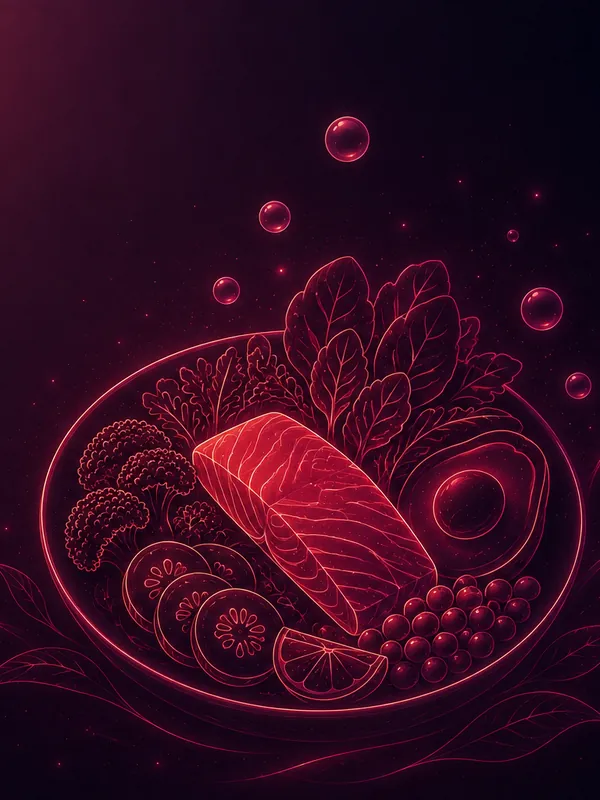
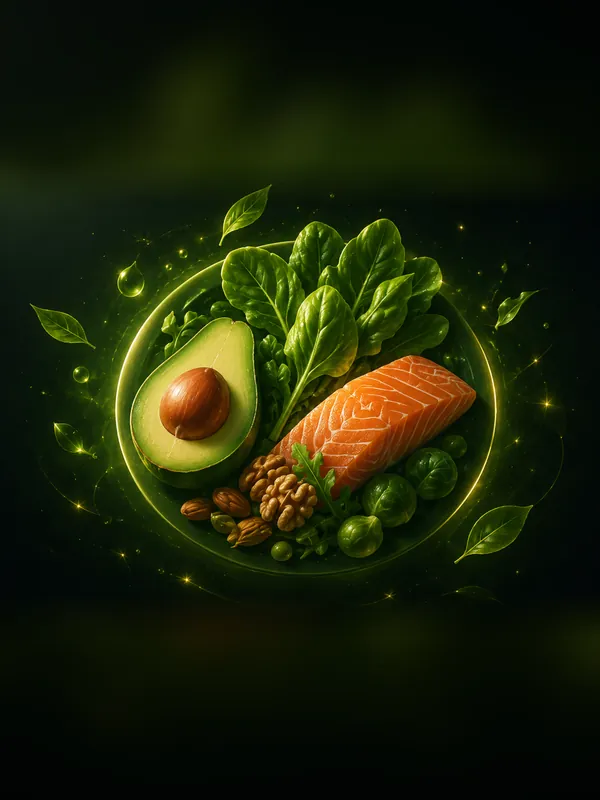
Six new posters + unpublished sprints show as "coming soon"
POSTERS (COVER_V 2 -> 3). Irena's new artwork replaces {slug}-poster.webp for sleep,
antichaos, gut-body, woman-body, nutrition and glutes. Wide versions and the
rejuvenation lotus are untouched, so the home hero and the day/sprint headers look
exactly as before.

The sources are not clean artwork but landscape CARDS: ~45px of black margin, rounded
corners and a translucent glyph badge in the top-right. So the crop runs in two steps -
trim to content (which removes both the margin and the corners), then 3:4. Skipping the
first step puts black bars top and bottom into the poster and leaves a 14px sliver of
the sliced badge at the right edge.

3:4 cuts 32-40% of the width on every one of them. Four survive a centre crop. antichaos
and nutrition did not: the brain is wide and the plate is round, both centred, so no
horizontal shift saves them - they are fitted whole instead, with the surround filled by
a blurred, darkened copy of the image itself and the card edge feathered over 90px. A
flat pad was tried first and read as a sticker: the card's rounded corners stayed
visible against it.

Caption legibility measured, not eyeballed - the .poster::before gradient composited
over each new poster, worst 5th percentile under the text: title 14.2-19.8, subtitle
8.1-10.2 against the AA threshold of 4.5. Worst new case (woman-body 14.2/8.1) is level
with the rejuvenation lotus already live and accepted (14.4/8.0).
[…]

diff --git a/app.js b/app.js
@@ -1080,7 +1080,16 @@ function escapeHtml(s) {
 // v2 (2026-08-16): перерисованы обе обложки antichaos под теми же именами. Счётчик
 // ОДИН на все обложки - подмена одной картинки заставляет перекачать и остальные.
 // Это осознанный размен: отдельная версия у каждого файла означала бы 14 констант.
-const COVER_V = 2;
+// v3 (2026-08-17): ШЕСТЬ ПОСТЕРОВ от Ирены, разноцветные (было единой малиновой
+// серией). Заменены ТОЛЬКО {slug}-poster.webp у sleep, antichaos, gut-body,
+// woman-body, nutrition, glutes; широкие версии и лотос rejuvenation не тронуты.
+// Исходники - лендскейпные КАРТОЧКИ (чёрное поле по краям, скруглённые углы, бейдж
+// с глифом в правом верхнем углу), поэтому кроп в два шага: обрезка по содержимому,
+// затем 3:4. У antichaos и nutrition центральный кроп резал мозг и круг тарелки -
+// они вписаны целиком, фон добит размытой копией себя с растушёвкой кромки.
+// woman-body в библиотеке НЕ используется (ЖКТ и тело - один спринт): лежит как
+// ассет под шапку дорожки «только тело».
+const COVER_V = 3;
 // ICON_V здесь СОЗНАТЕЛЬНО НЕТ. Иконки плиток, медальон Подружки и аватар стоят
 // статикой в index.html и версионируются прямо в src (`icons/…png?v=N`). Константа
 // в JS их не касалась бы и стала бы вторым источником правды, который молча
@@ -1207,6 +1216,12 @@ function homeSprints(data) {
 // Текущий = идущий спринт. Если идущего нет (библиотека из одних архивных) -
 // тот, в котором женщина остановилась на середине, иначе первый по порядку.
 function pickCurrentSprint(sprints, completed) {
+  // ЧЕРНОВИКИ ОТСЕИВАЕМ ПЕРВЫМ ДЕЛОМ. С 2026-08-17 get-home отдаёт и draft, а
+  // фолбэк ниже возвращает sprints[0] - незалитый «Анти-хаос» с order_index=12
+  // стоит в списке РАНЬШЕ всех залитых и стал бы «текущим» на доме, ведя женщину
+  // в пустой спринт. Сейчас до фолбэка дело не доходит только потому, что active
+  // существует; это везение, а не гарантия - активного может не оказаться.
+  sprints = sprints.filter((s) => s.status !== "draft");
   const active = sprints.find((s) => s.status === "active");
   if (active) return active;
   let best = null, bestDone = -1;
@@ -2709,15 +2724,25 @@ function plurDays(n) {
 // Обложка постера - covers/{slug}-poster.webp. Затемнение под текст рисует
 // .poster::before, в background-image его дублировать не нужно. Нет слага ->
 // остаётся заглушечный градиент из CSS.
+// НЕЗАЛИТЫЕ (status === "draft") рисуются, но НЕ НАЖИМАЮТСЯ. Признак нажимаемости -
+// сам атрибут data-sprint-id: делегированный обработчик ищет ".poster[data-sprint-id]",
+// поэтому черновику достаточно его не выдавать, и трогать обработчик не нужно.
+// role="button" и курсор тоже снимаем - иначе постер обещает действие, которого нет,
+// а женщина попадала бы в пустой спринт и думала, что сломалось.
+// .poster-empty черновику НЕ вешаем: там background-shorthand, который сбрасывает
+// background-size/position и разваливает кадрирование обложки.
 function posterHtml(s, isCurrent) {
   const days = s.days || [];
+  const isSoon = s.status === "draft";
   const total = s.estimated_days || days.length || 0;
-  const meta = total > 0 ? plurDays(total) : "скоро";
+  const meta = isSoon || total <= 0 ? "скоро" : plurDays(total);
   const cover = coverUrl(s.cover_slug, "poster");
-  return '<div class="poster' + (days.length ? "" : " poster-empty") + '" data-sprint-id="' +
-      escapeHtml(s.id) + '" role="button"' +
+  const cls = "poster" + (isSoon ? " poster-soon" : days.length ? "" : " poster-empty");
+  return '<div class="' + cls + '"' +
+      (isSoon ? ' aria-disabled="true"' : ' data-sprint-id="' + escapeHtml(s.id) + '" role="button"') +
       (cover ? ' style="background-image: url(\'' + cover + '\')"' : "") + ">" +
-    (isCurrent ? '<span class="poster-badge">Ты здесь</span>' : "") +
+    (isSoon ? '<span class="poster-badge poster-badge-soon">Скоро</span>'
+            : isCurrent ? '<span class="poster-badge">Ты здесь</span>' : "") +
     '<div class="poster-info">' +
       "<b>" + escapeHtml(s.title || "") + "</b>" +
       "<span>" + escapeHtml(meta) + "</span>" +

diff --git a/style.css b/style.css
@@ -688,6 +688,20 @@ a:hover { text-decoration: underline; }
 .poster-empty { background: linear-gradient(160deg,#2A2140,#150E22); border: 1px dashed rgba(255,255,255,.14); }
 .poster-empty .poster-info span { color: rgba(255,255,255,.45); }
 
+/* НЕЗАЛИТЫЙ СПРИНТ (status === "draft"): виден, но не нажимается.
+   Обложка своя, поэтому .poster-empty ему НЕ вешается - там background-shorthand,
+   который сбросил бы background-size/position и развалил кадр.
+   filter действует и на вложенный текст: подпись притухает вместе с картинкой, и это
+   как раз нужный вид - плитка целиком «спит». Контраст заголовка при brightness(.75)
+   остаётся около 10-14 против порога AA 4.5 (замер на новых постерах: худший
+   woman-body 14.2 до фильтра). */
+.poster-soon { cursor: default; filter: saturate(.6) brightness(.75); }
+/* Плашка НЕЙТРАЛЬНАЯ, не белая заливка: белая читается как действие ("Ты здесь"
+   ведёт в спринт), а «Скоро» никуда не ведёт. */
+.poster-badge-soon {
+  background: rgba(255,255,255,.14); color: rgba(255,255,255,.8);
+}
+
 /* ===================== ЭКРАНЫ СТАРТ / ВХОД ===================== */
 .start-card {
   background: var(--surface); border: 1px solid var(--border);

diff --git a/index.html b/index.html
@@ -35,7 +35,7 @@
   <meta name="apple-mobile-web-app-status-bar-style" content="black-translucent">
   <meta name="apple-mobile-web-app-title" content="Ирена Био">
 
-  <link rel="stylesheet" href="style.css?v=61">
+  <link rel="stylesheet" href="style.css?v=62">
   <link rel="preconnect" href="https://fonts.googleapis.com">
   <link rel="preconnect" href="https://fonts.gstatic.com" crossorigin>
   <!-- Заголовки Playfair Display Medium, интерфейс Onest. У обоих есть кириллица
@@ -585,6 +585,6 @@
 
   <!-- supabase-js только для auth-экранов (пароль + гейт); чекаут работает без него -->
   <script src="https://cdn.jsdelivr.net/npm/@supabase/supabase-js@2/dist/umd/supabase.js"></script>
-  <script src="app.js?v=84"></script>
+  <script src="app.js?v=85"></script>
 </body>
 </html>

diff --git a/CLAUDE.md b/CLAUDE.md
@@ -7,10 +7,11 @@
 ## Деплой
 - `git push origin main` → GitHub Pages публикует за ~1 мин.
 - **ВСЕГДА бампать `?v=N`** у `app.js`/`style.css` в `index.html` (иначе кэш).
-  Счётчики РАЗНЫЕ и бампаются независимо. Сейчас **app.js?v=84, style.css?v=61**.
+  Счётчики РАЗНЫЕ и бампаются независимо. Сейчас **app.js?v=85, style.css?v=62**.
 - **Обложки в `covers/` версионируются ОТДЕЛЬНО** — константой `COVER_V` в `app.js`.
   Меняете картинку под тем же именем — поднимайте `COVER_V`, иначе Pages отдаст старую.
-  Сейчас `COVER_V = 2` (2026-08-16, перерисованы обе обложки antichaos). Счётчик ОДИН
+  Сейчас `COVER_V = 3` (2026-08-17, шесть новых разноцветных ПОСТЕРОВ от Ирены; широкие
+  версии и лотос rejuvenation не тронуты). Счётчик ОДИН
   на все 14 файлов: подмена одной картинки заставляет перекачать и остальные.
 - Проверка живости: `curl https://app.irenabio.com/?cb=RND | grep -oE 'app.js\?v=[0-9]+'`.
 
@@ -74,8 +75,17 @@
 - **В базе только СЛАГ.** `sprints.cover_slug text` (миграция `add_cover_slug_to_sprints`).
   Ни пути, ни расширения, ни хоста — путь собирает `coverUrl()` в `app.js`, поэтому
   переезд картинок в Storage/CDN не потребует правки данных. Пусто → градиент-заглушка.
-- Проставлено: сон → `sleep`, ягодицы → `glutes`, омоложение → `rejuvenation`.
-  Остальные четыре ждут заливки своих спринтов.
+- Проставлено: сон → `sleep`, ягодицы → `glutes`, омоложение → `rejuvenation`, и с
+  2026-08-17 три черновика: анти-хаос → `antichaos`, ЖКТ+тело → `gut-body`,
+  питание → `nutrition` (см. раздел «НЕЗАЛИТЫЕ СПРИНТЫ»).
+- **`woman-body` в библиотеке НЕ используется.** ЖКТ и женское тело - ОДИН спринт
+  («Здоровый ЖКТ и женское тело»): в канале их дни шли вперемежку, и в аудио Ирена
+  ссылается на «вчерашний» день из соседней темы, а переписать аудио нельзя - разрез
+  на два оставил бы женщину с отсылками к дням, которых у неё нет. Внутри спринта
+  будет переключатель дорожек («Женское тело + ЖКТ» по умолчанию, «Только ЖКТ»,
+  «Только тело») со сквозными номерами 1..31 и пропусками у фильтрованной дорожки -
+  иначе «в третий день» из подкаста не совпадёт. Обложка `woman-body` лежит как ассет
+  под шапку дорожки «только тело».
 - `get-home` отдаёт `cover_slug` в ОБЕИХ ветках контракта — `sprints[]` и legacy `sprint`.
 - ЧЕТЫРЕ места на фронте: постер библиотеки (`-poster`), герой дома, шапка экрана дня
   (слаг ищется в `homeData` по `day.sprint_id` — get-day трогать не пришлось) и шапка
@@ -126,6 +136,37 @@
 телефоне подзаголовок будет читаться как узкий колодец, решать иначе: увести его
 вниз ПОД пилюлю CTA, где фон уже тёмный, и вернуть широкую строку. Мысль Владлена
 при постановке, задачей не оформлена.
+
+## НЕЗАЛИТЫЕ СПРИНТЫ В БИБЛИОТЕКЕ (live 2026-08-17)
+Библиотека показывала три спринта, а канал состоит из семи. Теперь показывает все:
+незалитые - плашкой «Скоро», приглушённо и **без клика**.
+
+- **Признак - `status === "draft"`, а НЕ «спринт без дней».** `get-home` расширен до
+  `status=in.(active,archived,draft)`. Почему не по дням: дни приезжают ПАРТИЯМИ (13
+  дней сна не влезли в один прогон), и признак «нет дней» мигал бы в обе стороны -
+  спринт на середине заливки уже имеет дни, но не готов, а спринт с 2 днями из 32
+  читался бы как готовый. Плюс `publish_at` у переносимых дней - настоящие даты
+  канала, то есть в прошлом: день «виден» в ту же секунду, как вставлен.
+- **Нажимаемость определяет сам атрибут `data-sprint-id`.** Делегированный обработчик
+  ищет `.poster[data-sprint-id]`, поэтому черновику достаточно его не выдавать -
+  обработчик не трогали. Заодно снят `role="button"` и курсор.
+- ⚠ **`pickCurrentSprint` ОБЯЗАН отсеивать draft первым делом.** Его фолбэк -
+  `sprints[0]`, а «Анти-хаос» с `order_index=12` стоит в списке раньше всех залитых и
+  стал бы «текущим» на доме. Сегодня до фолбэка не доходит только потому, что active
+  существует - это везение, не гарантия.
+- `.poster-empty` черновику НЕ вешается: там `background`-shorthand, который сбрасывает
+  `background-size/position` и разваливает кадрирование обложки.
+- `filter: saturate(.6) brightness(.75)` на `.poster-soon` действует и на вложенный
+  текст - подпись притухает вместе с картинкой, плитка «спит» целиком. Контраст
+  заголовка остаётся около 10-14 против порога AA 4.5.
+- `estimated_days` у черновиков **NULL**, подпись «скоро» берётся из статуса. Числа из
+  канала для ЖКТ и тела существуют только как совместные 31, и цифра, которую придётся
+  править, хуже отсутствия.
+- **Старые закэшированные бандлы** (до `app.js?v=85`) получат черновики в `sprints[]` и
+  нарисуют их обычными нажимаемыми постерами - женщина попадёт в пустой спринт. Окно -
+  один цикл кэша, ровно от этого и бампается `?v=`.
+- `order_index` шагом 2 между сном (10) и ягодицами (20): анти-хаос 12,
+  ЖКТ+тело 14, питание 16.
 
 ## КАРТИНОЧНЫЕ ИКОНКИ (шаг B, live 2026-08-16)
 9 файлов в `icons/` (147 КБ), все RGBA, все @3x к своей отрисовке. Заменили
